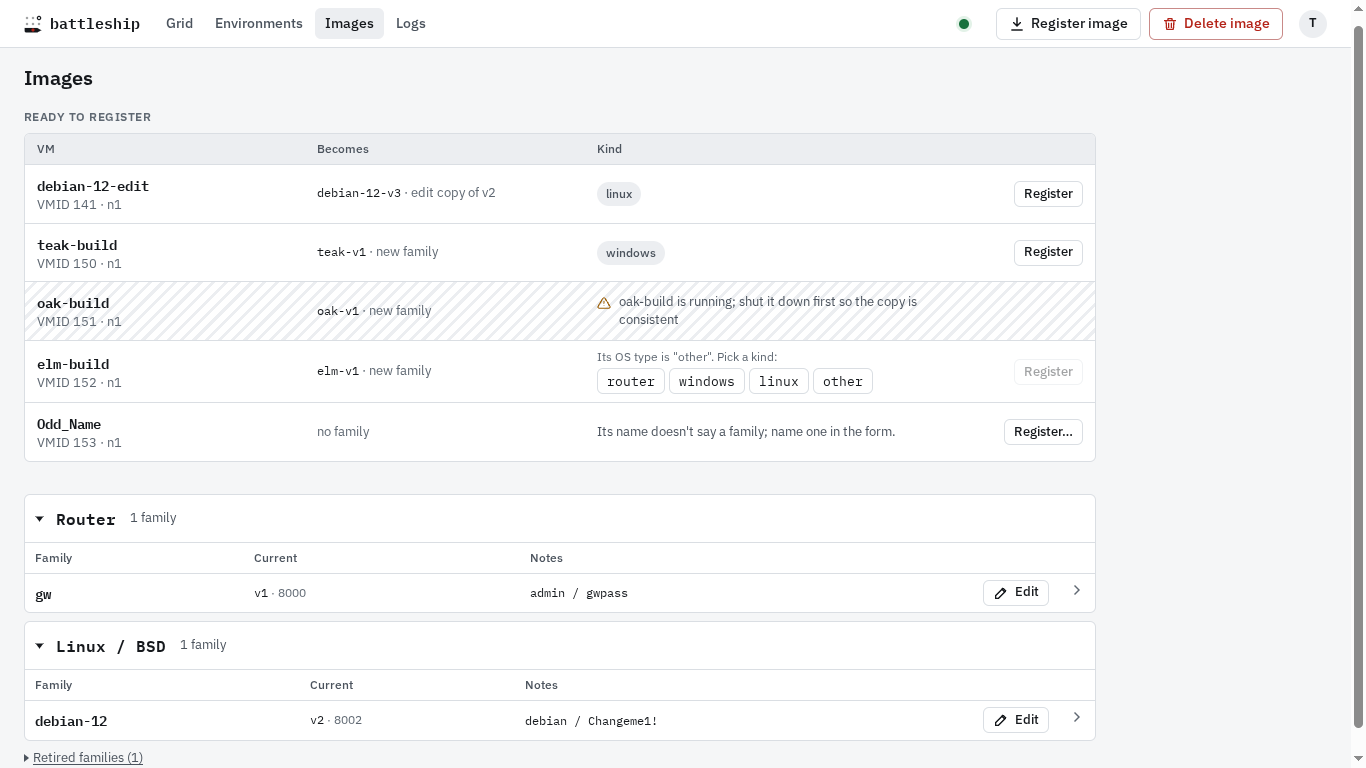
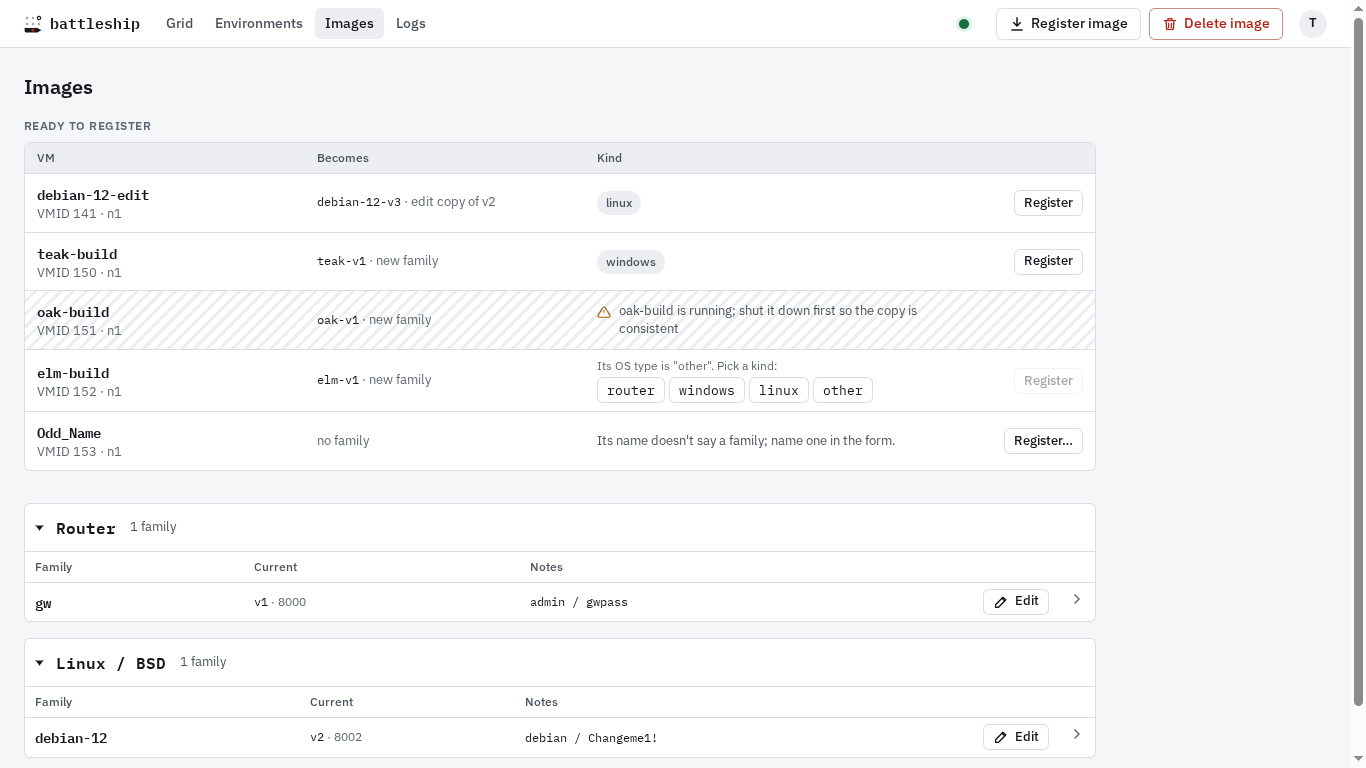
web: polish phone header wrapping, images spacing, and pip.skip selector

diff --git a/internal/web/static/app.css b/internal/web/static/app.css
@@ -46,8 +46,8 @@ a{color:inherit}
 h1,h2,h3,p{margin:0}
 :focus-visible{outline:2px solid var(--focus);outline-offset:2px}
 .sr{position:absolute;width:1px;height:1px;overflow:hidden;clip-path:inset(50%);white-space:nowrap}
-.skip{position:absolute;left:-999px;z-index:50}
-.skip:focus{left:var(--s4);top:var(--s2);padding:6px 10px;border-radius:var(--r2);background:var(--sf)}
+a.skip{position:absolute;left:-999px;z-index:50}
+a.skip:focus{left:var(--s4);top:var(--s2);padding:6px 10px;border-radius:var(--r2);background:var(--sf)}
 .vm,code{font-family:var(--fm);font-size:.93em;white-space:nowrap}
 .name{white-space:nowrap}
 .muted{color:var(--tx3)}
@@ -75,6 +75,7 @@ details[open]>.disc::before{transform:rotate(90deg)}
 /* ---------- images ---------- */
 .sech{display:flex;align-items:baseline;flex-wrap:wrap;gap:4px 10px}
 .images .sec+.sec{margin-top:var(--s6)}
+#cat{gap:var(--s4)}
 .rlist{border:1px solid var(--ln);border-radius:var(--r2);background:var(--sf);overflow:hidden}
 .rhead,.rrow{display:grid;grid-template-columns:minmax(0,1.1fr) minmax(0,1.1fr) minmax(0,1.5fr) 110px;gap:6px 16px;align-items:center;margin:0;padding:8px 12px}
 .rhead{background:var(--sf2);color:var(--tx2);font-size:var(--t1);font-weight:500;padding-block:6px}
@@ -521,8 +522,11 @@ textarea.inp{height:auto;min-height:9em;padding:8px 10px;line-height:1.5;resize:
   .mrow.router{border-bottom-style:solid}
   .mrow>.n{grid-area:n}.mrow>.a{grid-area:a}.mrow>.x{grid-area:x}.mrow>.im{grid-area:i}
   .addr .pre.l{display:none}.addr .pre.s{display:inline}
-  .top{flex-wrap:wrap;gap:var(--s1) var(--s2);padding:var(--s1) var(--s4) var(--s2)}
-  .nav a{padding:5px 7px}
+  .top{flex-wrap:wrap;gap:var(--s1) 6px;padding:var(--s1) var(--s4) var(--s2)}
+  .top .sp{display:none}
+  .nav,span.brand{margin-right:auto}
+  .nav a{padding:5px 6px}
+  .live>summary{width:28px;height:28px}
   .lead-ops{order:8;width:100%;gap:var(--s1)}
   .lead-ops .btn{flex:1;padding:0 9px;font-size:var(--t2)}
   .brand span:last-child,.me .role{display:none}
@@ -569,7 +573,7 @@ textarea.inp{height:auto;min-height:9em;padding:8px 10px;line-height:1.5;resize:
   .tbl.jobt tr.bad{background:var(--bad-bg)}
   .rvw tr.blk{background:repeating-linear-gradient(135deg,transparent 0 6px,var(--sf2) 6px 9px)}
   .rvw tr.blk td{background:none}
-  .env{scroll-margin-top:120px} /* the header wraps to two rows */
+  .env{scroll-margin-top:92px} /* the header wraps to two rows */
 }
 @media (pointer:coarse){.grid{--ch:30px}.hb,.all{height:28px}.all input{width:18px;height:18px}.btn{min-height:36px}.opt span{height:34px}}
 @media (prefers-reduced-motion:reduce){*,*::before,*::after{animation-duration:.01ms!important;transition-duration:.01ms!important}.is-busy .g,.spin{animation:spin 4s steps(8) infinite!important}}

diff --git a/internal/web/static/app.js b/internal/web/static/app.js
@@ -503,6 +503,10 @@
 
   document.addEventListener("click", function (e) {
     if (e.defaultPrevented || e.button !== 0 || e.metaKey || e.ctrlKey || e.shiftKey || e.altKey || !e.target.closest) return;
+    if (e.target.closest("summary .acts") && !e.target.closest("a")) {
+      e.preventDefault();
+      return;
+    }
     var close = e.target.closest("#panel [data-close]");
     if (close) {
       e.preventDefault();

diff --git a/internal/web/envhost_test.go b/internal/web/envhost_test.go
@@ -178,6 +178,10 @@ func TestBrowserEnvHostPanel(t *testing.T) {
 	defer b.clean()
 
 	b.open("/environments")
+	b.eval(`(function(){var d=document.querySelector('#kilo\\.alpha summary .acts');d.dispatchEvent(new MouseEvent("click",{bubbles:true,cancelable:true,button:0}))})()`, nil)
+	if !b.is(`document.querySelector('#kilo\\.alpha > details').open`) {
+		t.Errorf("clicking summary .acts folded its environment")
+	}
 	b.click(`a.fam[href="/environments/host?vmid=2101"]`)
 	b.waitFor("the host sheet", `document.querySelector("#panel[open] #host-title") !== null`)
 	if !b.is(`document.querySelector('#kilo\\.alpha > details').open && document.querySelector('#kilo\\.alpha table.envt').checkVisibility()`) {

diff --git a/internal/web/browser_test.go b/internal/web/browser_test.go
@@ -504,7 +504,7 @@ func TestBrowserPreviewAndJob(t *testing.T) {
 			}
 			n, _ := parseID(id)
 			h.start(n)
-			h.event(n, "team07-web", "stop", string(apply.EventDone), "")
+			h.event(n, "team07-web", string(pods.StepPower), string(apply.EventDone), "")
 			publishJob(h, n)
 			b.waitFor("the job to run", `document.querySelector("#job-head .st").textContent.trim().startsWith("running · ")`)
 			b.waitFor("the log line", `document.querySelectorAll("#job-log li").length > 0`)
